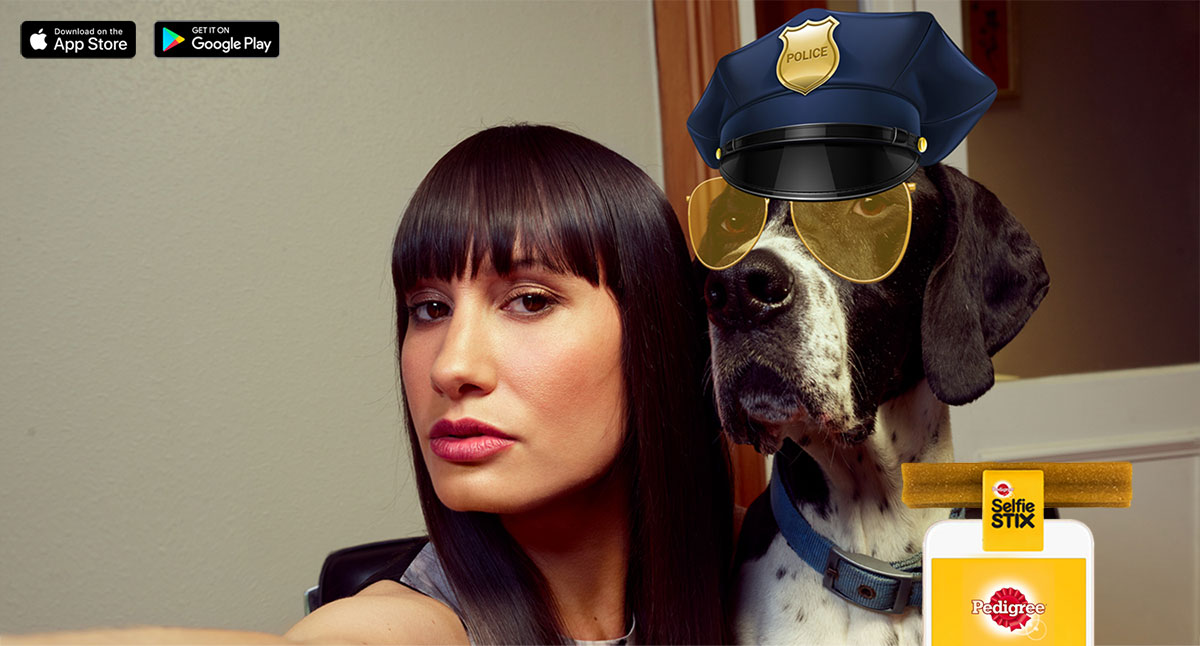
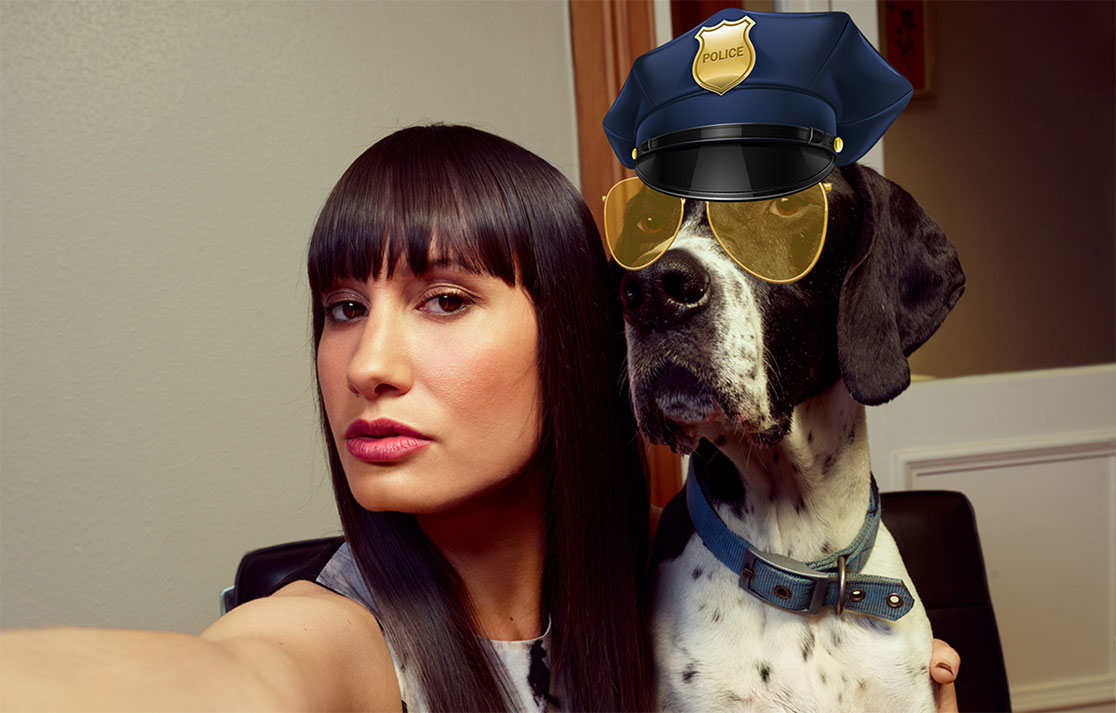
some copy updates and a dynamic poster for pedigree selfiestix

diff --git a/app/assets/index.html b/app/assets/index.html
@@ -51,7 +51,15 @@
         </div>
         <div class="divider"></div>
       </div>
-      <div class="image"><img data-src="/images/selfiestix.jpg" class="lazy" /></div>
+      <div class="image">
+        <div class="appstores">
+          <img data-src="/images/appstores.png" class="lazy" />
+        </div>
+        <div class="selfiestix-phone">
+          <img data-src="/images/selfiestix-phone.png" class="lazy" />
+        </div>
+        <img data-src="/images/selfiestix.jpg" class="lazy" />
+      </div>
 
       <div class="description">
         <div class="content">
@@ -68,7 +76,7 @@
       <div class="description">
         <div class="content">
           <h2>Emirates Team New&nbsp;Zealand</h2>
-          <p><span class="client">Hewlett Packard</span>&nbsp;I built the software for the HP Emirates Team New Zealand activation, running in central Auckland during the America's Cup race. The activation visualised the amount of power generated as people cycled on Wattbikes.</p><p>The experience was designed to give you a sense of what it's like to be a 'Cyclor' on the Team New Zealand boat, and to see how much energy you could produce compared to the boys on the boat.</p>
+          <p><span class="client">Hewlett Packard</span>&nbsp;I co-built the software for the HP Emirates Team New Zealand activation, running in central Auckland during the America's Cup race. The activation visualised the amount of power generated as people cycled on Wattbikes.</p><p>The experience was designed to give you a sense of what it's like to be a 'Cyclor' on the Team New Zealand boat, and to see how much energy you could produce compared to the boys on the boat.</p>
         </div>
         <div class="divider"></div>
       </div>
@@ -79,6 +87,7 @@
         <div class="content">
           <h2>Child Replacement Programme</h2>
           <p><span class="client">Pedigree</span>&nbsp;I built the web platform for the Pedigree 'Child Replacement Programme'. Aimed at parents whose kids had moved out, the tool allowed empty-nesters to specify details of their departed child and be matched with a dog at a local shelter that needed a new home.</p>
+          <!-- http://www.adweek.com/creativity/kids-leaving-home-try-this-child-replacement-program-says-fun-pedigree-campaign/ -->
           <a class="brutal-link" href="http://replacethem.co.nz"><img src="/images/view-the-site.png" /></a>
         </div>
         <div class="divider"></div>
@@ -100,7 +109,7 @@
       <div class="description">
         <div class="content">
           <h2>BNZ Prospect</h2>
-          <p><span class="client">BNZ</span>&nbsp;Prospect something something something.</p>
+          <p><span class="client">BNZ</span>&nbsp;I co-built BNZ Prospect, a web tool to find the best suburb to buy a house in Auckland. The tool ranks the suitabiltiy of a sububrb based on a wide variety of data sources from categories such as schooling, safety, urban recreation, commute time, price and more.</p>
           <a class="brutal-link" href="http://bnzprospect.co.nz"><img src="/images/view-the-site.png" /></a>
         </div>
         <div class="divider"></div>
@@ -110,7 +119,7 @@
       <div class="description">
         <div class="content">
           <h2>Pedigree Found</h2>
-          <p><span class="client">Pedigree</span>&nbsp;Nam vel tincidunt leo, id vehicula orci. Nunc vestibulum nec orci ut suscipit. Fusce iaculis pretium vehicula. Curabitur leo nisi, semper ac ornare id, venenatis quis orci.</p>
+          <p><span class="client">Pedigree</span>&nbsp;I co-built Pedigree Found &ndash; a mobile app that can help you find your lost dog in real time by using geolocation and targeted advertising powered by Google's ad network.</p>
         </div>
         <div class="divider"></div>
       </div>
@@ -119,7 +128,9 @@
       <div class="description">
         <div class="content">
           <h2>Home turf</h2>
-          <p><span class="client">BNZ</span>&nbsp;Praesent ligula elit, elementum vel lacinia eget, tempor et nisi. Etiam eu nisl sollicitudin, ullamcorper elit et, dapibus eros. Nullam id nulla ultrices, cursus felis a, gravida nulla.</p>
+          <p><span class="client">BNZ</span>&nbsp;The BNZ Crusaders win on home turf more than any other team. BNZ wanted to reward loyal fans by hiding $25,000 under the home turf at AMI Stadium in Christchurch.<p>
+
+          <p>I built the web platform for the competition that allowed users to select one of 15,000 spots on the field for a chance to take home the money.</p>
         </div>
         <div class="divider"></div>
       </div>
@@ -128,7 +139,7 @@
       <div class="description">
         <div class="content">
           <h2>Shred my mortgage</h2>
-          <p><span class="client">BNZ</span>&nbsp;Donec neque justo, venenatis at aliquet auctor, viverra imperdiet nunc. Nulla pulvinar molestie purus at ultrices. Nam eu eleifend eros. Morbi mattis et dolor sed scelerisque.</p>
+          <p><span class="client">BNZ</span>&nbsp;New Zealanders accumulate six million dollars in home loan interest every four hours. I built the online 'Shred My Mortgage' tool, which applies a pretty tricky formula to a user's entered mortgage amount, and shows how much they can save if they incrementally increase their mortgage payments over the course of the loan. In some cases the savings can run into hundreds of thousands of dollars.</p>
         </div>
       </div>
       <div class="image"><img data-src="/images/shred.jpg" class="lazy" /></div>
@@ -136,12 +147,10 @@
       <div class="description">
         <div class="content">
           <h2>Breaking Bad</h2>
-          <p><span class="client">My projects</span>&nbsp;Donec neque justo, venenatis at aliquet auctor, viverra imperdiet nunc. Nulla pulvinar molestie purus at ultrices. Nam eu eleifend eros. Morbi mattis et dolor sed scelerisque.</p>
+          <p><span class="client">My projects</span>&nbsp;I built the Breaking Bad element finder tool, which identifies the chemical elements in any text you specify then generates a 'Breaking Bad' style animation/graphic from it. The site's had a few hundred thousand visitors to it over the years and has made it to the front page of reddit twice. </p>
         </div>
       </div>
-      <div class="video">
-        <!-- <video src="/videos/breaking-bad.mp4" preload="none" playsinline loop muted> -->
-      </div>
+      <div class="image"><img data-src="/images/bb.gif" class="lazy" /></div>
 
 
     </div>

diff --git a/app/styles.scss b/app/styles.scss
@@ -7,7 +7,7 @@ body {
 
   .container {
     overflow:auto;
-    
+
 
     a.brutal-link {
 
@@ -307,6 +307,30 @@ body {
           object-fit: cover;
         }
 
+      }
+
+      .image {
+        position: relative;
+        .appstores, .selfiestix-phone {
+          position: absolute;
+
+        }
+
+        .appstores {
+          top:20px;
+          left:20px;
+          width:150px;
+        }
+
+        .selfiestix-phone {
+          bottom:0px;
+          right:30px;
+          width:170px;
+
+          img {
+            display: block;
+          }
+        }
       }
 
     }
